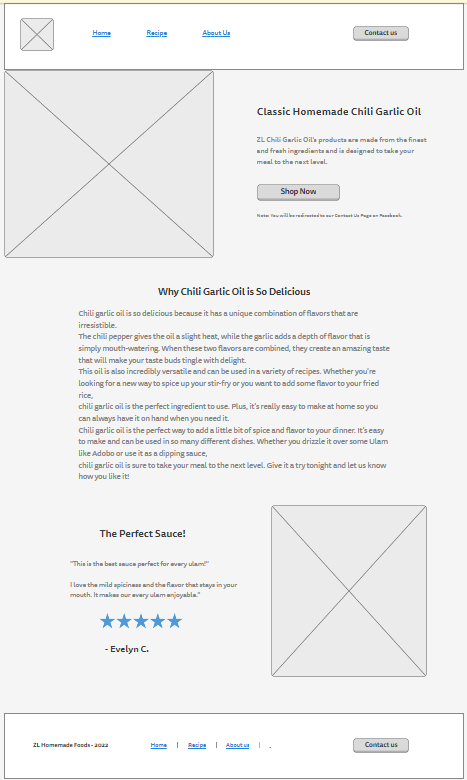
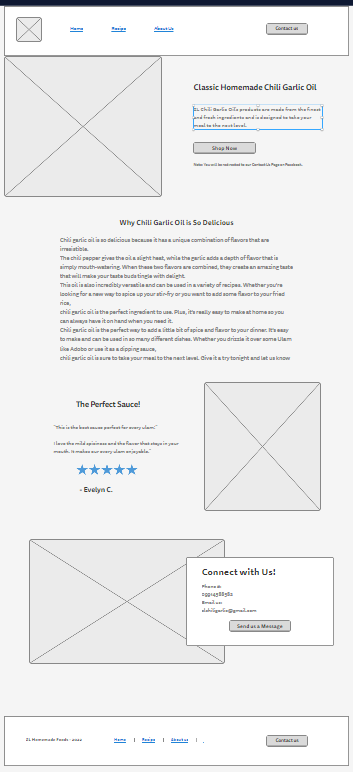
added css in personal site

diff --git a/zlchiligarlicoil/index.html b/zlchiligarlicoil/index.html
@@ -32,42 +32,46 @@
                 ingredients and is designed to take your meal to the next level.
             </p>
             <div class="button-box">
-                <a class="button" href="#">Shop Now</a>
-                <p>Note: You will be redirected to our Facebook Page where you can shop for products.</p>
+                <a class="button" href="https://www.facebook.com/profile.php?id=100087227260485">Shop Now</a>
             </div>
+            <p class="note">Note: You will be redirected to our Facebook Page where you can shop for products.</p>
+            
         </section>
     </div>    
     <main class="home-grid">
         <section class="main-article"> 
-            <h1 class="headlines">Why Chili Garlic Oil is So Delicious</h1>
-            <p>Chili garlic oil is so delicious because it has a unique combination of flavors that are irresistible. <br>The chili pepper gives the oil a slight heat, while the garlic adds a depth of flavor that is simply mouth-watering. When these two flavors are combined, they create an amazing taste that will make your taste buds tingle with delight.<br>
-                This oil is also incredibly versatile and can be used in a variety of recipes. Whether you're looking for a new way to spice up your stir-fry or you want to add some flavor to your fried rice, <br>chili garlic oil is the perfect ingredient to use. Plus, it's really easy to make at home so you can always have it on hand when you need it.<br>
-                Chili garlic oil is the perfect way to add a little bit of spice and flavor to your dinner. It's easy to make and can be used in so many different dishes. Whether you drizzle it over some Ulam like Adobo or use it as a dipping sauce, <br>chili garlic oil is sure to take your meal to the next level. Give it a try tonight and let us know how you like it!<br></p>
+            <h2 class="headlines">Why Chili Garlic Oil is So Delicious</h2>
+            <p><strong>Chili garlic oil</strong> is so delicious because it has a unique combination of flavors that are irresistible.</p>
+                <p>The chili pepper gives the oil a slight heat, while the garlic adds a depth of flavor that is simply mouth-watering. When these two flavors are combined, they create an amazing taste that will make your taste buds tingle with delight.
+                This oil is also incredibly versatile and can be used in a variety of recipes. Whether you're looking for a new way to spice up your stir-fry or you want to add some flavor to your fried rice, chili garlic oil is the perfect ingredient to use. Plus, it's really easy to make at home so you can always have it on hand when you need it.</p>
+                <p><strong>Chili garlic oil</strong> is the perfect way to add a little bit of spice and flavor to your dinner. It's easy to make and can be used in so many different dishes. Whether you drizzle it over some Ulam like Adobo or use it as a dipping sauce, chili garlic oil is sure to <strong>take your meal to the next level</strong>. Give it a try tonight and let us know how you like it!</p>
         </section>  
-        <section class="feedback">
+        <div class="feedback">
             <h1>The Perfect Sauce!</h1>
             <p>"This is the best sauce perfect for every ulam.</p>
             <p>I love the mild spiciness and the flavor that stays in your mouth.
                 It makes our every ulam enjoyable."
             </p>
             <img src="images/Blue-5-Star-Rating-Transparent-PNG.png" alt="Five star rating">
-            <h5>- Evelyn C.</h5>
-        </section> 
-        <img src="images/chili-garlic-oil-image-4.png" alt="chili garlic oil image">   
+            <h4>- Evelyn C.</h4>
+        </div> 
+        <img class="feedback-img" src="images/chili-garlic-oil-image-4.png" alt="chili garlic oil image">   
         <div class="background"></div>
         <img class="chili" src="images/chili-g6fc9cabeb_1280.jpg" alt="Chili with ingredients">
             <section class="msg">
                 <h2>Connect with Us!</h2>
-                <p>Phone #: 09914588582</p>
-                <p>Email us at: zlchiligarlic@gmail.com</p>
-                <a class="send-msg" href="https://www.facebook.com/profile.php?id=100087227260485">Send us a Message</a>
+                <p>Phone #: 09914588582<br>
+                Email us at: zlchiligarlic@gmail.com</p>
+                <div class="button-box">
+                    <a class="button" href="https://www.facebook.com/profile.php?id=100087227260485">Send us a Message</a>
+                </div>
             </section>
     </main>
     <footer>
         <p>ZL Homemade Foods &copy; 2022 - Jayvee Galosmo</p>
         <p><a href="index.html">Home</a></p>
         <p><a href="recipe.html">Recipe</a></p>
-        <p><a href="#">About Us</a></p>
+        <p><a href="about-us.html">About Us</a></p>
         <p><a href="site-plan.html">Site Plan</a></p>
         <div class="button-box">
             <a class="button" href="https://www.facebook.com/profile.php?id=100087227260485">Contact Us</a>

diff --git a/zlchiligarlicoil/styles/styles.css b/zlchiligarlicoil/styles/styles.css
@@ -8,7 +8,7 @@ body {
     font-size: 18px;
     margin: 0;
     padding: 0;
-    font-family: "Inter", sans-serif;
+    font-family: "Open Sans", sans-serif;
 }
 .logo {
     width: 130px;
@@ -27,10 +27,13 @@ nav {
     display: flex;
     justify-content: space-around;
     align-items: center;
-    
+}
+nav a:hover {
+    background-color: #A3333D;
+    color: #ffffff;
 }
 nav a {
-    padding: 35px 5px;
+    padding: 58px;
     text-align: center;
     text-decoration: none;
     color: #141414;
@@ -42,15 +45,19 @@ nav a {
     justify-self:center;
     align-self:center;
 }
+.button-box:hover, .button:hover {
+    transform: scale(1.1);
+    transition: transform .5s;
+}
 .button {
     background-color: #A3333D;
     color: white;
     text-decoration: none;
     font-size: 18px;
     padding: 15px 30px;
-    margin-top: 50px;
+    margin-top: 100px;
     border-radius: 5px;
-    font-weight: 100;
+    font-weight: 100px;
 }
 #hero {
     display: grid;
@@ -59,17 +66,127 @@ nav a {
 .main-headline {
     grid-column: 4/7;
     grid-row: 1/6;
-    margin: 100px 30px;
+    margin: 50px 30px;
+    line-height: 1.8em;
 }
 #hero-img {
     grid-column: 1/4;
     grid-row: 1/6;
-    width: 100%;
+   
 }
 #hero-img img {
     width: 100%;
+    box-shadow: 5px 5px 10px gray;
 }
 .home-headline {
     font-family: "Cinzel";
     color: #a55127;
+    font-size: 2em;
+    line-height: 2em;
+}
+.main-headline div {
+    margin: 50px 0;
+}
+.note {
+    font-size: 15px;
+    margin-top: 50px;
+}
+.home-grid {
+    display: grid;
+    grid-template-columns: repeat(10, 1fr);
+}
+.main-article {
+    grid-column: 2/10;
+    grid-row: 2/3;
+    width: 80%;
+    line-height: 2;
+    margin-bottom: 100px;
+}
+.main-article h2 {
+    text-align: center;
+}
+.feedback {
+    grid-column: 2/6;
+    grid-row: 4/5;
+    justify-self: center;
+    align-self: center;
+    margin: 200px 0;
+}
+.feedback-img {
+    grid-column: 6/11;
+    grid-row: 4/5;
+    width: 500px;
+    height: 700px;
+    margin: 0 auto;
+    box-shadow: 5px 5px 10px gray;
+}
+.feedback img {
+    width: 250px;
+    height: 50px;
+}
+.background {
+    grid-column: 1/11;
+    grid-row: 1/12;
+    background-color: #ded6d2;
+    z-index: -1;
+    height: 2000px;
+}
+.chili {
+    grid-column: 2/7;
+    grid-row: 6/9;
+    box-shadow: 5px 5px 10px gray;
+    width: 100%;
+    height: 100%;
+}
+.msg {
+    background-color: #2274a5;
+    color:#ffffff;
+    line-height: 1.5em;
+    padding: 15px 50px 35px 35px;
+    grid-column: 6/10;
+    grid-row: 7/8;
+    box-shadow: 5px 5px 10px gray;
+}
+.msg h2 {
+    color: whitesmoke;
+
+}
+.msg p {
+    color: whitesmoke;
+    font-size: 1em;
+    margin-bottom: 35px;
+}
+.msg .button-box {
+    text-align: center;
+    text-decoration: none;
+    justify-self:auto;
+    align-self:auto;
+}
+h2, h1 {
+    font-family: "Cinzel";
+    color: #a55127;
+}
+footer {
+    margin-top: 125px;
+    padding: 50px 50px;
+    background-color: #ded6d2;
+    display: flex;
+    justify-content: space-around;
+    align-items: center;
+}
+footer p {
+    font-family: "Cinzel";
+    color: #7a2c06;
+}
+footer a {
+    font-family: "Open Sans", sans-serif;
+    text-decoration: none;
+    color: #141414;
+}
+footer p a:hover {
+    color:#A3333D;
+    text-decoration: underline;
+}
+.button:hover {
+    background-color: #62030b;
 }

diff --git a/zlchiligarlicoil/styles/site-plan.css b/zlchiligarlicoil/styles/site-plan.css
@@ -12,7 +12,7 @@ Fonts are separated by a | */
 
   /* change the values below to your chosen font(s) */
   --heading-font: "Cinzel", "DM Serif", serif;
-  --paragraph-font: "Inter", "Open Sans", sans-serif;
+  --paragraph-font:  "Open Sans", sans-serif;
 
   /* these colors below should be chosen from among your palette colors above */
   --headline-color-on-white: #a55127;  /* headlines on a white background */ 

diff --git a/zlchiligarlicoil/site-plan.html b/zlchiligarlicoil/site-plan.html
@@ -69,7 +69,7 @@
         Heading Font: Cinzel <!-- change this -->
       </h4>
       <h4>
-        Paragraph Font: Inter  <!-- change this -->
+        Paragraph Font: Open Sans <!-- change this -->
       </h4>
       <h3>
         Normal paragraph example
